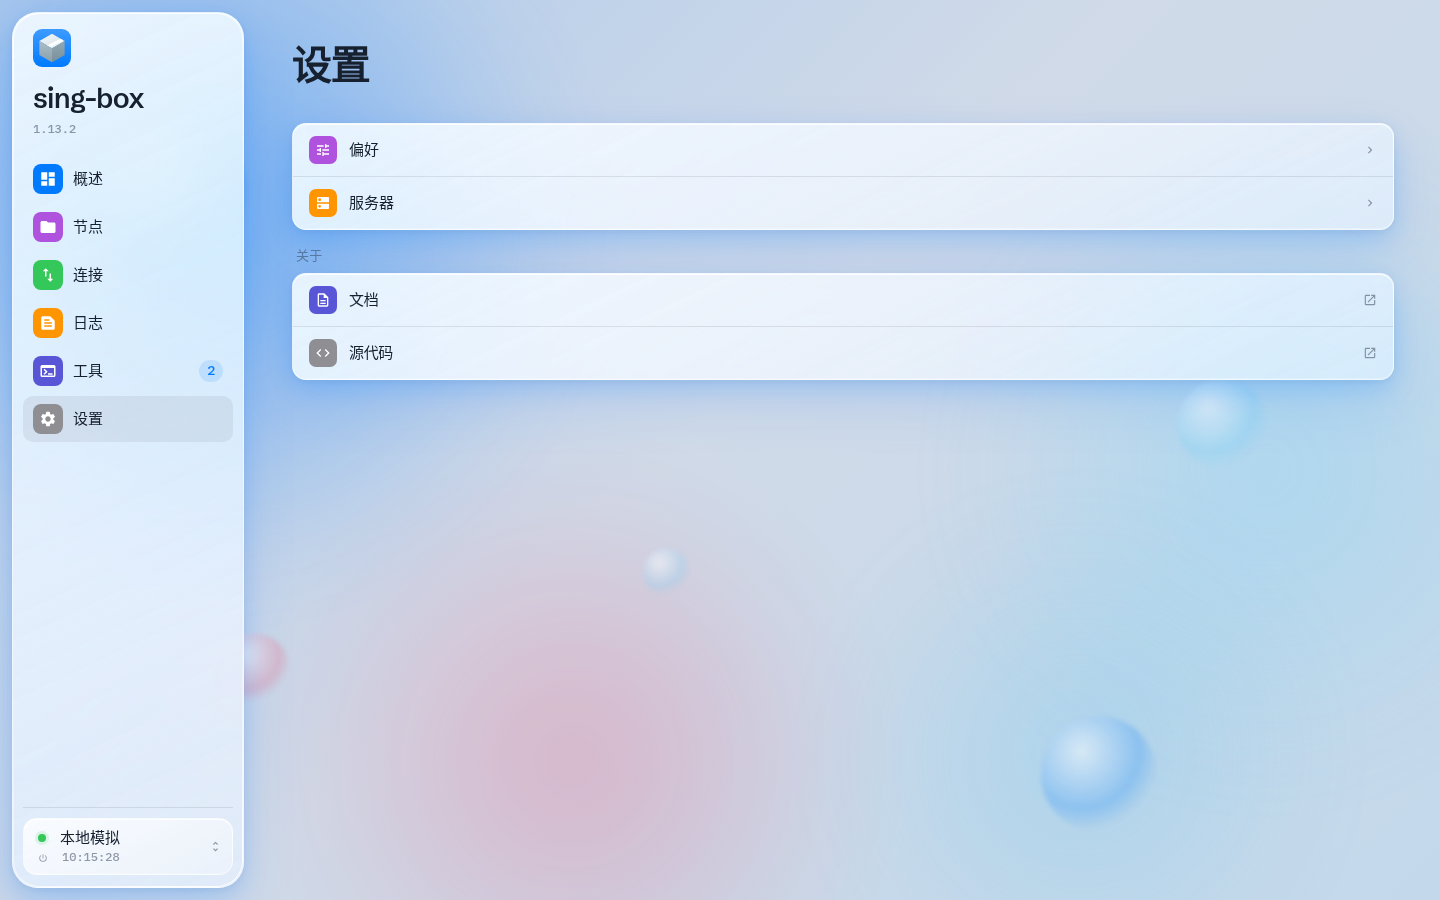
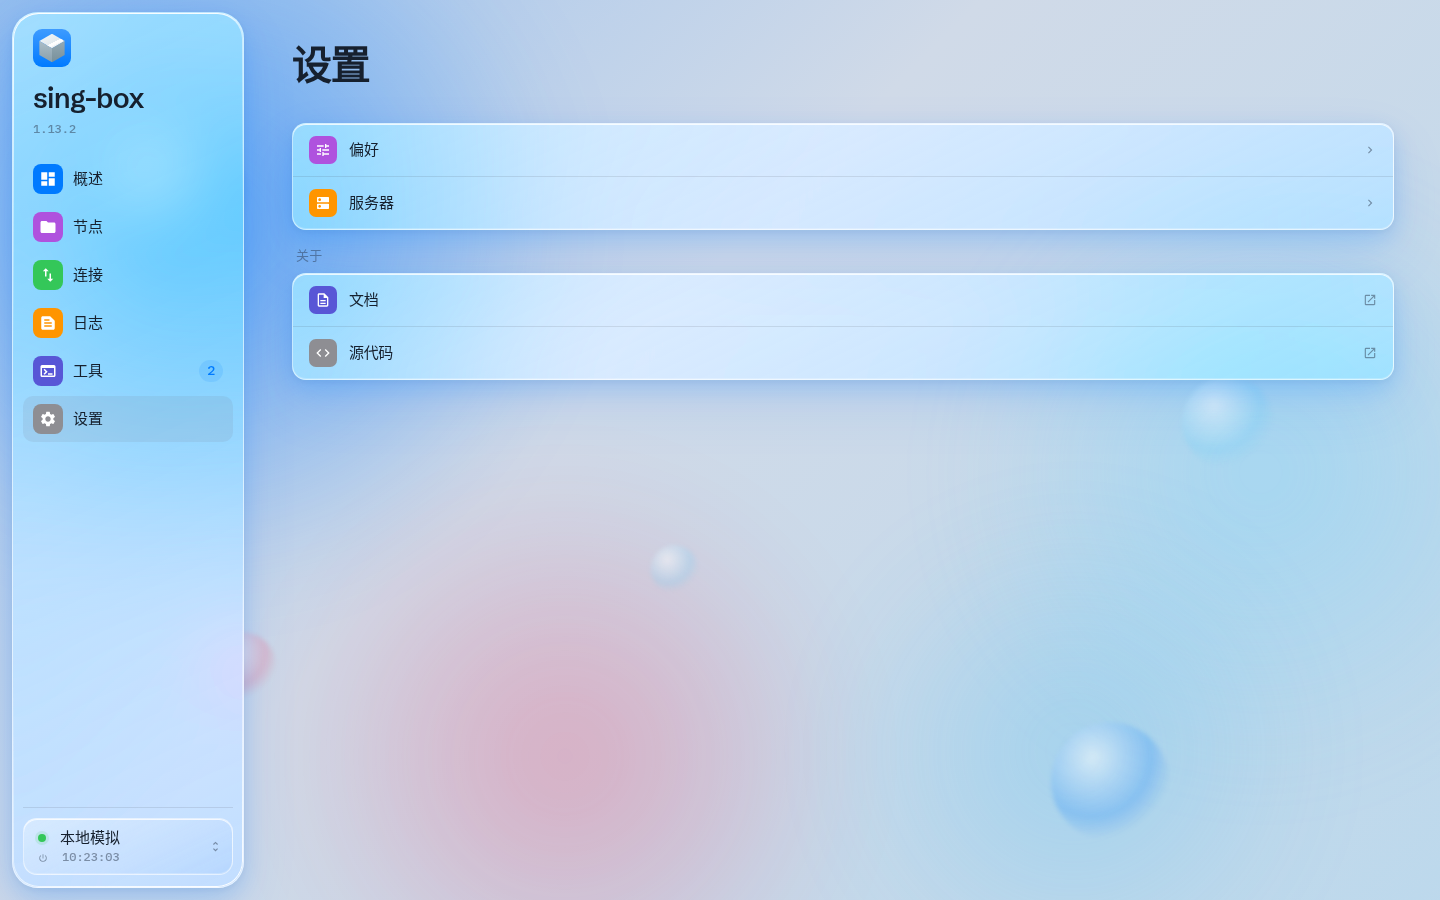
style: thin glass fill so frost reads as crystal
The 74% white sheen sat on top of backdrop-filter and painted
every pane as milk. Drop fill to 14%, keep sheen as a 28%
specular into accent, and raise saturate so the blobs show
through as colored frost. Type stays #16202e / #e9eef7.

diff --git a/src/styles/globals.css b/src/styles/globals.css
@@ -88,7 +88,7 @@
   --canvas-b: var(--ios-teal);
   --canvas-c: var(--ios-pink);
   --blob-d: #38bdf8;
-  --blob-o: 0.4;
+  --blob-o: 0.5;
   --blob-blur: 48px;
   --bokeh-a: rgb(0 122 255 / 38%);
   --bokeh-b: rgb(100 210 255 / 34%);
@@ -129,24 +129,24 @@
   --bright: #fff;
   --terminal-bg: #1c1c1e;
 
-  /* Three glass layers: chrome 32 / cards 22 / nested 12, like tomnest. */
-  --glass-bg: rgb(236 242 250 / 42%);
-  --glass-bg-strong: rgb(236 242 250 / 56%);
-  --glass-bg-soft: rgb(255 255 255 / 28%);
-  --glass-border: rgb(255 255 255 / 55%);
-  --glass-border-strong: rgb(255 255 255 / 70%);
+  /* Thin crystal glass: fill is a tint, sheen is a specular, blur does the frost. */
+  --glass-bg: rgb(255 255 255 / 14%);
+  --glass-bg-strong: rgb(255 255 255 / 22%);
+  --glass-bg-soft: rgb(255 255 255 / 8%);
+  --glass-border: rgb(255 255 255 / 58%);
+  --glass-border-strong: rgb(255 255 255 / 74%);
   --glass-blur: 22px;
-  --glass-saturate: 175%;
-  --glass-filter: blur(var(--glass-blur)) saturate(var(--glass-saturate));
+  --glass-saturate: 190%;
+  --glass-filter: blur(var(--glass-blur)) saturate(var(--glass-saturate)) brightness(1.06);
   --chrome-blur: 32px;
-  --chrome-saturate: 180%;
-  --chrome-filter: blur(var(--chrome-blur)) saturate(var(--chrome-saturate));
+  --chrome-saturate: 200%;
+  --chrome-filter: blur(var(--chrome-blur)) saturate(var(--chrome-saturate)) brightness(1.05);
   --glass-inner-blur: 12px;
-  --glass-inner-saturate: 160%;
-  --glass-inner-filter: blur(var(--glass-inner-blur)) saturate(var(--glass-inner-saturate));
-  --glass-sheen: linear-gradient(155deg, rgb(255 255 255 / 74%) 0%, rgb(236 242 250 / 42%) 100%);
-  --glass-sheen-strong: linear-gradient(155deg, rgb(255 255 255 / 84%) 0%, rgb(236 242 250 / 56%) 100%);
-  --glass-sheen-soft: linear-gradient(155deg, rgb(255 255 255 / 34%) 0%, color-mix(in srgb, var(--accent) 8%, transparent) 100%);
+  --glass-inner-saturate: 170%;
+  --glass-inner-filter: blur(var(--glass-inner-blur)) saturate(var(--glass-inner-saturate)) brightness(1.04);
+  --glass-sheen: linear-gradient(155deg, rgb(255 255 255 / 28%) 0%, color-mix(in srgb, var(--accent) 10%, transparent) 100%);
+  --glass-sheen-strong: linear-gradient(155deg, rgb(255 255 255 / 38%) 0%, color-mix(in srgb, var(--accent) 12%, transparent) 100%);
+  --glass-sheen-soft: linear-gradient(155deg, rgb(255 255 255 / 16%) 0%, transparent 100%);
   --glass-highlight: inset 0 1px 0 rgb(255 255 255 / 80%), inset 0 -1px 0 rgb(255 255 255 / 22%);
   --glass-rim: rgb(255 255 255 / 95%);
   --glass-shadow: 0 2px 6px rgb(8 32 56 / 5%), 0 8px 24px color-mix(in srgb, var(--accent) 18%, transparent), 0 24px 56px color-mix(in srgb, var(--accent) 12%, transparent);
@@ -311,7 +311,7 @@
   --canvas-b: var(--ios-teal);
   --canvas-c: var(--ios-pink);
   --blob-d: #38bdf8;
-  --blob-o: 0.44;
+  --blob-o: 0.52;
   --bokeh-a: rgb(10 132 255 / 42%);
   --bokeh-b: rgb(100 210 255 / 36%);
   --bokeh-c: rgb(255 55 95 / 34%);
@@ -347,14 +347,14 @@
   --highlight: rgb(10 132 255 / 28%);
   --scrim: rgb(0 0 0 / 52%);
 
-  --glass-bg: rgb(16 24 36 / 48%);
-  --glass-bg-strong: rgb(14 21 32 / 60%);
-  --glass-bg-soft: rgb(255 255 255 / 8%);
-  --glass-border: rgb(255 255 255 / 18%);
-  --glass-border-strong: rgb(255 255 255 / 28%);
-  --glass-sheen: linear-gradient(155deg, rgb(255 255 255 / 12%) 0%, rgb(16 24 36 / 46%) 100%);
-  --glass-sheen-strong: linear-gradient(155deg, rgb(255 255 255 / 16%) 0%, rgb(16 24 36 / 58%) 100%);
-  --glass-sheen-soft: linear-gradient(155deg, rgb(255 255 255 / 10%) 0%, color-mix(in srgb, var(--accent) 7%, transparent) 100%);
+  --glass-bg: rgb(8 14 24 / 28%);
+  --glass-bg-strong: rgb(8 14 24 / 40%);
+  --glass-bg-soft: rgb(255 255 255 / 5%);
+  --glass-border: rgb(255 255 255 / 22%);
+  --glass-border-strong: rgb(255 255 255 / 32%);
+  --glass-sheen: linear-gradient(155deg, rgb(255 255 255 / 10%) 0%, color-mix(in srgb, var(--accent) 12%, transparent) 100%);
+  --glass-sheen-strong: linear-gradient(155deg, rgb(255 255 255 / 14%) 0%, color-mix(in srgb, var(--accent) 16%, transparent) 100%);
+  --glass-sheen-soft: linear-gradient(155deg, rgb(255 255 255 / 6%) 0%, transparent 100%);
   --glass-highlight: inset 0 1px 0 rgb(255 255 255 / 16%), inset 0 -1px 0 rgb(0 0 0 / 22%);
   --glass-rim: rgb(255 255 255 / 32%);
   --glass-shadow: 0 2px 6px rgb(0 0 0 / 28%), 0 12px 32px rgb(0 0 0 / 38%), 0 28px 64px rgb(0 0 0 / 32%);
@@ -607,7 +607,7 @@ body {
   color: var(--text);
   letter-spacing: -0.022em;
   background-color: var(--bg);
-  background-image: linear-gradient(135deg, color-mix(in srgb, var(--canvas-a) 16%, var(--bg)) 0%, var(--bg) 48%, color-mix(in srgb, var(--canvas-b) 12%, var(--bg)) 100%);
+  background-image: linear-gradient(135deg, color-mix(in srgb, var(--canvas-a) 24%, var(--bg)) 0%, var(--bg) 42%, color-mix(in srgb, var(--canvas-b) 18%, var(--bg)) 100%);
   -webkit-font-smoothing: antialiased;
 }
 

diff --git a/docs/UI-REDESIGN-NOTES.md b/docs/UI-REDESIGN-NOTES.md
@@ -14,17 +14,17 @@
 
 - **氛围层**：四个 `.atmosphere i` 用径向渐变色池 + `--blob-blur` 48px（色池有形可辨，卡片才有东西可雾化）；五个 `.atmosphere b` 小 bokeh 只 `blur(2px)`，玻璃滑过时霜立刻可见；`body::before` 颗粒 `noise-shift`。
 - **Chrome（侧栏、菜单、抽屉、对话框、工具栏）**：`--chrome-filter` = 32px / 180%。
-- **Content（卡片、列表、日志）**：`--glass-filter` = 22px / 175%，填充用 155° `--glass-sheen`（左上 74% → 右下 42%），不是平涂。`--material-*` 是别名。
-- **内嵌（节点块、搜索框）**：`--glass-inner-filter` = 12px / 160%，填充 `--glass-bg-soft` 28% + `--glass-sheen-soft`（34% → 8% accent），比卡片 sheen 更透，托盘的霜才能透出来。
+- **Content（卡片、列表、日志）**：`--glass-filter` = 22px / 190% saturate + 6% brightness。填充只有 14% 白；`--glass-sheen` 是 28% 高光 → 10% accent 的镜面，不是 74% 白膜。`--material-*` 是别名。
+- **内嵌（节点块、搜索框）**：`--glass-inner-filter` = 12px / 170%，填充 8% + 更透的 `--glass-sheen-soft`。
 
 画布要比玻璃深一档：浅色 `#d0dae8` / 深色 `#04060b`。字落在玻璃上，用实色 `#16202e` / `#e9eef7`。标题字距收紧（约 -0.03em），页面留白偏大。
 
 | 令牌 | 值 | 用途 |
 | --- | --- | --- |
 | `--bg` / `--canvas-a/b/c` / `--blob-*` | `#d0dae8` / `#04060b` + 径向色池 48px + 2px bokeh | 有形色池，霜才雾得出来 |
-| `--chrome-filter` | 32px / 180% | chrome 液态玻璃 |
-| `--glass-*` / `--material-*` | 22px / 175%，155° sheen，填充 42% | 内容层 |
-| `--glass-inner-filter` | 12px / 160%，填充 28% | 嵌套节点块 / 搜索框 |
+| `--chrome-filter` | 32px / 200% + brightness 1.05 | chrome 晶莹玻璃 |
+| `--glass-*` / `--material-*` | 22px / 190% + brightness 1.06，填充 14%，sheen 28%→accent | 内容层 |
+| `--glass-inner-filter` | 12px / 170%，填充 8% | 嵌套节点块 / 搜索框 |
 | `--accent` | 系统蓝 `#007AFF` / `#0A84FF` | 唯一强调色（可换预设） |
 | `--ios-blue/green/orange/...` | iOS 系统色 | 语义色与图标砖 |
 | `--ios-grad-*` | **纯色**（不是渐变） | 图标砖 |
